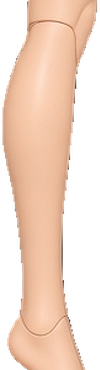
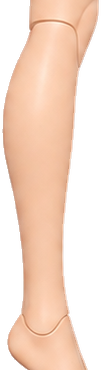
[rc3][task-4r] clean M03 body and add far arm

diff --git a/godot/scripts/mannequin/build_kotone_bot_m03_scene.py b/godot/scripts/mannequin/build_kotone_bot_m03_scene.py
@@ -80,17 +80,19 @@ def main() -> None:
         bone("NearLeg", "Skeleton2D/Hip", 0, 0),
         bone("NearLower", "Skeleton2D/Hip/NearLeg", knee_x - hip_x, knee_y - hip_y),
         bone("NearFoot", "Skeleton2D/Hip/NearLeg/NearLower", ankle_x - knee_x, ankle_y - knee_y, True),
+        bone("ArmFar", "Skeleton2D/Hip", shoulder_x - hip_x, shoulder_y - hip_y, True),
         bone("ArmNear", "Skeleton2D/Hip", shoulder_x - hip_x, shoulder_y - hip_y, True),
     ])
     rig_lines.extend([
-        art("far_thigh", "Skeleton2D/Hip/FarLeg", resource_by_name["thigh"], parts["thigh"]["pivot_local"], 0),
-        art("far_calf", "Skeleton2D/Hip/FarLeg/FarLower", resource_by_name["calf"], parts["calf"]["pivot_local"], 1),
-        art("far_foot", "Skeleton2D/Hip/FarLeg/FarLower/FarFoot", resource_by_name["foot"], parts["foot"]["pivot_local"], 2),
-        art("body_head_pelvis", "Skeleton2D/Hip", resource_by_name["body_head_pelvis"], parts["body_head_pelvis"]["pivot_local"], 3),
-        art("near_thigh", "Skeleton2D/Hip/NearLeg", resource_by_name["thigh"], parts["thigh"]["pivot_local"], 4),
-        art("near_calf", "Skeleton2D/Hip/NearLeg/NearLower", resource_by_name["calf"], parts["calf"]["pivot_local"], 5),
-        art("near_foot", "Skeleton2D/Hip/NearLeg/NearLower/NearFoot", resource_by_name["foot"], parts["foot"]["pivot_local"], 6),
-        art("arm_near", "Skeleton2D/Hip/ArmNear", resource_by_name["arm_near"], parts["arm_near"]["pivot_local"], 7),
+        art("far_arm", "Skeleton2D/Hip/ArmFar", resource_by_name["arm_near"], parts["arm_near"]["pivot_local"], 0),
+        art("far_thigh", "Skeleton2D/Hip/FarLeg", resource_by_name["thigh"], parts["thigh"]["pivot_local"], 1),
+        art("far_calf", "Skeleton2D/Hip/FarLeg/FarLower", resource_by_name["calf"], parts["calf"]["pivot_local"], 2),
+        art("far_foot", "Skeleton2D/Hip/FarLeg/FarLower/FarFoot", resource_by_name["foot"], parts["foot"]["pivot_local"], 3),
+        art("body_head_pelvis", "Skeleton2D/Hip", resource_by_name["body_head_pelvis"], parts["body_head_pelvis"]["pivot_local"], 4),
+        art("near_thigh", "Skeleton2D/Hip/NearLeg", resource_by_name["thigh"], parts["thigh"]["pivot_local"], 5),
+        art("near_calf", "Skeleton2D/Hip/NearLeg/NearLower", resource_by_name["calf"], parts["calf"]["pivot_local"], 6),
+        art("near_foot", "Skeleton2D/Hip/NearLeg/NearLower/NearFoot", resource_by_name["foot"], parts["foot"]["pivot_local"], 7),
+        art("arm_near", "Skeleton2D/Hip/ArmNear", resource_by_name["arm_near"], parts["arm_near"]["pivot_local"], 8),
     ])
     (TARGET / "neutral_rig.tscn").write_text("\n".join(rig_lines), encoding="utf-8")
 
@@ -115,7 +117,7 @@ offset_left = 24.0
 offset_top = 20.0
 offset_right = 1500.0
 offset_bottom = 56.0
-text = "KTN-RC3-M03 SIDE GAIT GATE — expected: right profile, two alternating legs, one rigid near arm"
+text = "KTN-RC3-M03 SIDE GAIT GATE — expected: clean right profile, two alternating legs and arms"
 theme_override_font_sizes/font_size = 22
 z_index = 100
 

diff --git a/godot/scripts/mannequin/build_side_m03_assets.py b/godot/scripts/mannequin/build_side_m03_assets.py
@@ -12,7 +12,7 @@ from PIL import Image
 
 ROOT = Path(__file__).resolve().parents[3]
 SOURCE_DIR = ROOT / "godot/assets/rc3/mannequin/source/side"
-BODY_SOURCE = SOURCE_DIR / "kotone_side_left_mannequin_source.png"
+BODY_SOURCE = SOURCE_DIR / "kotone_side_right_no_arms_source.png"
 ARM_SOURCE = SOURCE_DIR / "kotone_side_arm_down_source.png"
 OUTPUT = ROOT / "godot/assets/rc3/mannequin/parts/side/m03"
 
@@ -24,7 +24,7 @@ KNEE_PIVOT = (625, 775)
 ANKLE_PIVOT = (625, 1060)
 SHOULDER_PIVOT = (620, 205)
 
[3 lines of base64/hex data omitted]
 
 
@@ -48,9 +48,8 @@ def normalize_body() -> Image.Image:
     target_width = FIGURE_ALPHA_BOUNDS[2] - FIGURE_ALPHA_BOUNDS[0]
     target_height = FIGURE_ALPHA_BOUNDS[3] - FIGURE_ALPHA_BOUNDS[1]
     resized = cropped.resize((target_width, target_height), Image.Resampling.LANCZOS)
-    right_facing = resized.transpose(Image.Transpose.FLIP_LEFT_RIGHT)
     canvas = Image.new("RGBA", CANVAS_SIZE, (0, 0, 0, 0))
-    canvas.alpha_composite(right_facing, dest=FIGURE_ALPHA_BOUNDS[:2])
+    canvas.alpha_composite(resized, dest=FIGURE_ALPHA_BOUNDS[:2])
     return canvas
 
 
@@ -132,7 +131,7 @@ def main() -> None:
         "view": "side_right",
         "purpose": "first_side_facing_grounded_gait_prototype",
         "status": "isolated_visibility_gate_pending",
-        "source_body": "../../../source/side/kotone_side_left_mannequin_source.png",
+        "source_body": "../../../source/side/kotone_side_right_no_arms_source.png",
         "source_body_sha256": BODY_SHA256,
         "source_arm": "../../../source/side/kotone_side_arm_down_source.png",
         "source_arm_sha256": ARM_SHA256,
@@ -141,10 +140,10 @@ def main() -> None:
         "normalized_source_sha256": sha256(normalized_path),
         "normalized_alpha_bounds": list(FIGURE_ALPHA_BOUNDS),
         "direction_policy": "right_source_mirror_visual_pivot_for_left",
-        "construction": "static_side_body_one_rigid_near_arm_two_instances_of_one_three_segment_leg",
+        "construction": "clean_side_body_two_instances_of_one_rigid_arm_two_instances_of_one_three_segment_leg",
         "known_limitations": [
-            "source_far_arm_is_foreshortened_and_remains_baked_into_body",
-            "near_arm_is_rigid_at_elbow_for_first_side_gait_gate",
+            "one_side_arm_art_is_reused_for_near_and_far_layers",
+            "arms_are_rigid_at_elbow_for_first_side_gait_gate",
             "one_side_leg_art_is_reused_for_near_and_far_layers",
         ],
         "pivots": {
@@ -155,6 +154,7 @@ def main() -> None:
         },
         "parts": parts,
         "draw_order_back_to_front": [
+            "far_arm",
             "far_foot",
             "far_calf",
             "far_thigh",

diff --git a/godot/scripts/mannequin/validate_kotone_bot_m03_scene.py b/godot/scripts/mannequin/validate_kotone_bot_m03_scene.py
@@ -39,13 +39,15 @@ def main() -> None:
 
     require(manifest["technical_model"] == "KTN-RC3-M03", "wrong model id")
     require(manifest["view"] == "side_right", "M03 source direction changed")
+    require(manifest["source_body"].endswith("kotone_side_right_no_arms_source.png"), "clean no-arm body source missing")
     require(manifest["normalized_alpha_bounds"] == [546, 54, 708, 1165], "side registration changed")
-    require(len(re.findall(r'type="Bone2D"', rig)) == 8, "expected eight M03 bones")
-    require(len(re.findall(r'name="Art_[^"]+" type="Sprite2D"', rig)) == 8, "expected eight M03 art nodes")
-    require('name="Art_arm_near"' in rig, "separate complete near arm missing")
+    require(len(re.findall(r'type="Bone2D"', rig)) == 9, "expected nine M03 bones")
+    require(len(re.findall(r'name="Art_[^"]+" type="Sprite2D"', rig)) == 9, "expected nine M03 art nodes")
+    require('name="Art_far_arm"' in rig and 'name="Art_arm_near"' in rig, "two complete side arms missing")
     require('name="Art_far_thigh"' in rig and 'name="Art_near_thigh"' in rig, "duplicated leg layers missing")
     require('instance=ExtResource("2_rig")' in preview, "preview does not instance M03 rig")
     require('func _sample_leg' in preview_script, "animated preview gait sampler missing")
+    require('set_bone("Hip/ArmFar"' in preview_script, "far arm gait phase missing")
     require('Side profile: contact -> stance -> toe-off -> bent-knee swing -> contact.' in player_script, "playable side gait contract missing")
     require('visual_pivot.scale.x = 1.0 if direction > 0.0 else -1.0' in player_script, "direction mirror policy missing")
     require('zoom = Vector2(6, 6)' in player, "world camera zoom changed")

diff --git a/reference_projects/godot_skeleton2d_demo/KOTONE_MODEL_OVERRIDE.md b/reference_projects/godot_skeleton2d_demo/KOTONE_MODEL_OVERRIDE.md
@@ -51,11 +51,11 @@ M02 remains front-facing, so it is retained as a registration and comparison
 model rather than promoted as the side-scroller player.
 
 `KTN-RC3-M03` is the first true side-facing mechanical gate. It uses the only
-available coherent side turnaround, mirrored to a right-facing 1254 x 1254
-registration source, one separately generated complete rigid near arm, and one
-three-piece side leg instantiated for both near and far layers. The source's
-foreshortened far arm remains baked into the static body for this first gait
-gate. Run `./m03-side-preview.sh`; it animates the two legs and near arm in
-place without changing `level.tscn` or the active M01 rollback player. The
+available coherent side turnaround, cleaned to a right-facing 1254 x 1254
+registration source without a baked-in arm, one separately generated complete
+rigid arm instantiated for both near and far layers, and one three-piece side
+leg instantiated for both near and far layers. Run `./m03-side-preview.sh`; it
+animates both legs and both arms in place without changing `level.tscn` or the
+active M01 rollback player. The
 launcher performs a headless import pass first, so a fresh checkout has valid
 Texture2D resources before the preview scene is parsed.
